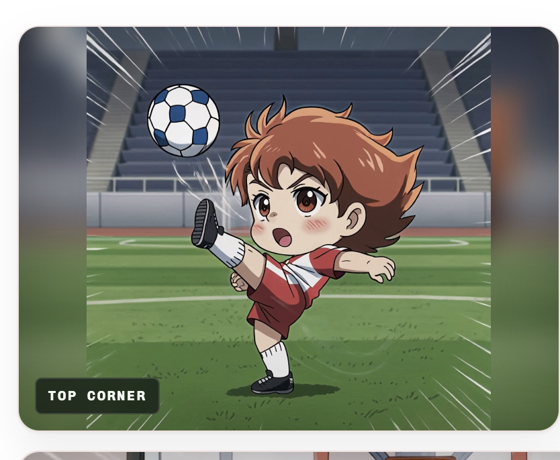
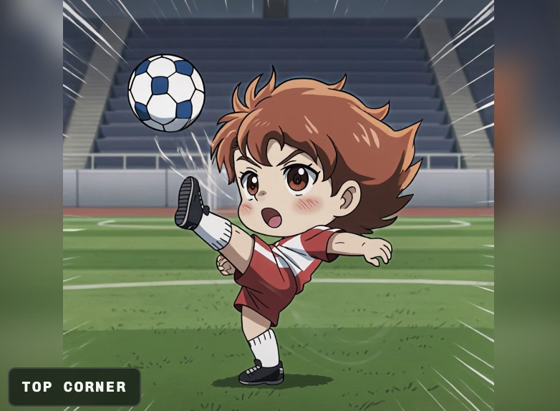
Add files via upload

diff --git a/public/index.html b/public/index.html
@@ -8,7 +8,7 @@
 <link rel="manifest" href="/manifest.json">
 <link rel="apple-touch-icon" href="/icon-512.png?v=2">
 <link rel="icon" href="/icon-192.png?v=2">
-<link rel="stylesheet" href="styles.css?v=245">
+<link rel="stylesheet" href="styles.css?v=246">
 </head>
 <body>
 <div class="shell">
@@ -264,6 +264,6 @@
     window.addEventListener('load', () => navigator.serviceWorker.register('/sw.js').catch(() => {}));
   }
 </script>
-<script src="app.js?v=245"></script>
+<script src="app.js?v=246"></script>
 </body>
 </html>

diff --git a/public/sw.js b/public/sw.js
@@ -1,5 +1,5 @@
 // LIVE UP · 최소 서비스워커 (PWA 설치 가능 조건 충족)
-const CACHE = 'liveup-v245';
+const CACHE = 'liveup-v246';
 const CORE = ['/', '/index.html', '/logo.png.jpg', '/manifest.json'];
 
 self.addEventListener('install', (e) => {
